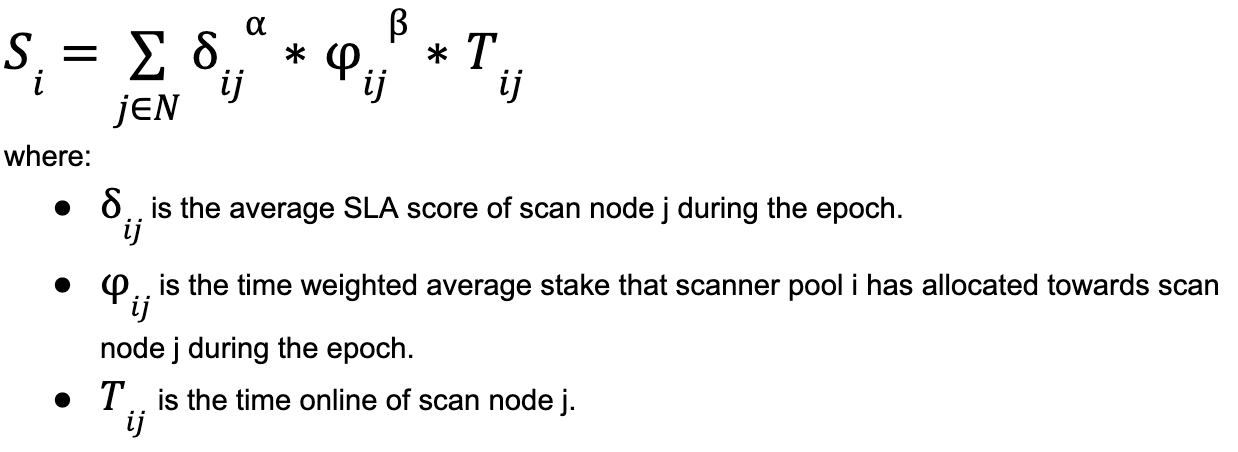
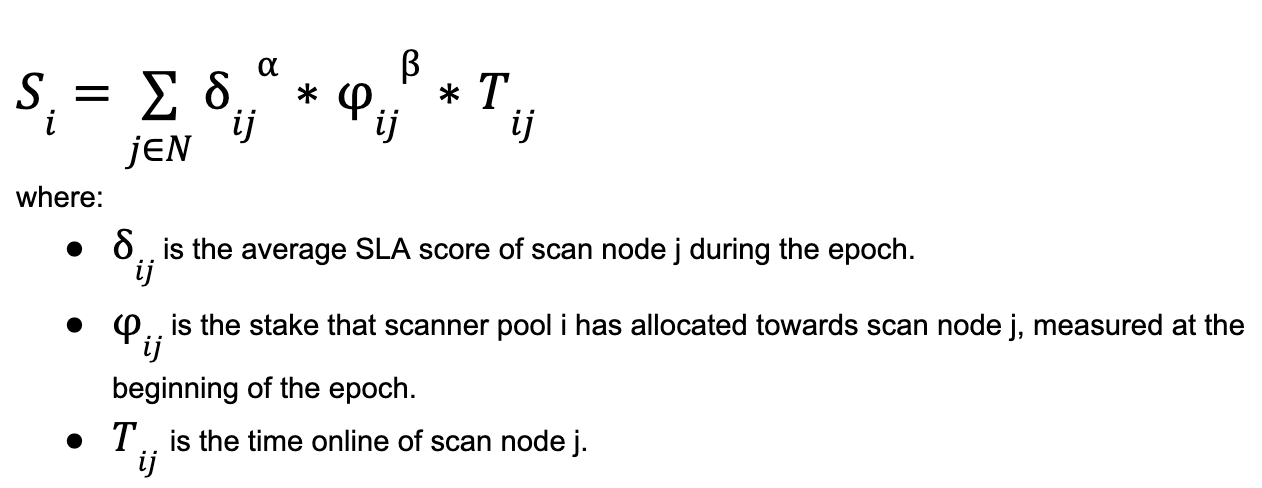
update rewards explanations

Changed region(s): [[0.0, 0.3097, 1.0, 0.9912], [0.0, 0.0, 0.4297, 0.3407], [0.0307, 0.2478, 0.0614, 0.2788]]

diff --git a/docs/delegated-staking-rewards.md b/docs/delegated-staking-rewards.md
@@ -83,7 +83,10 @@ where:
 
 The values of parameters α and β are set to 3 and 0.5 respectively and are subject to change in the future.
 
-The total amount of the delegator rewards are distributed to each delegator proportionally to their deposited stake. The on-chain rules are the ultimate authority of this logic, and in the case where the on-chain rules differ from this, it will prevail.
+!!! important "Initial values"
+    For new pools during their first week, the formulas will be modified slightly and instead of using the stake at the beginning of the epoch, the rewards will be calculated using the time-weighted average stake during the epoch. For the following epochs, the distribution will be based on the initial stake values in each epoch.
+
+The total amount of the delegator rewards are distributed to each delegator proportionally to their initial deposited stake value in each epoch. The on-chain rules are the ultimate authority of this logic, and in the case where the on-chain rules differ from this, it will prevail.
 
 [^1]: For this calculation, only the periods when the SLA is at least 0.75 are considered.
 
